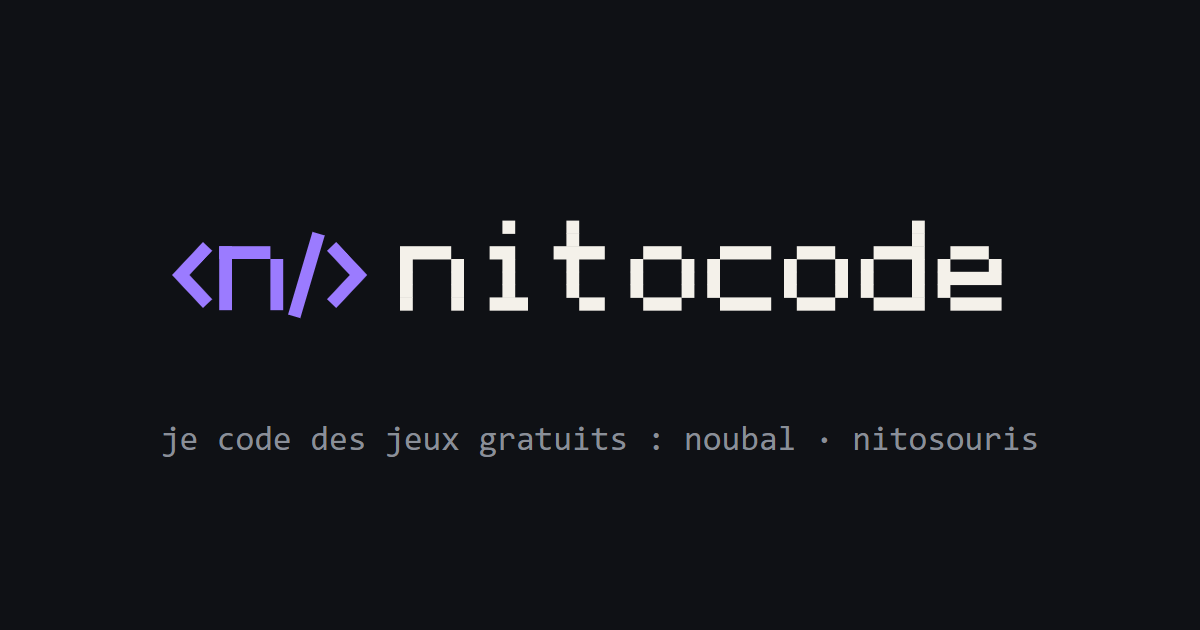
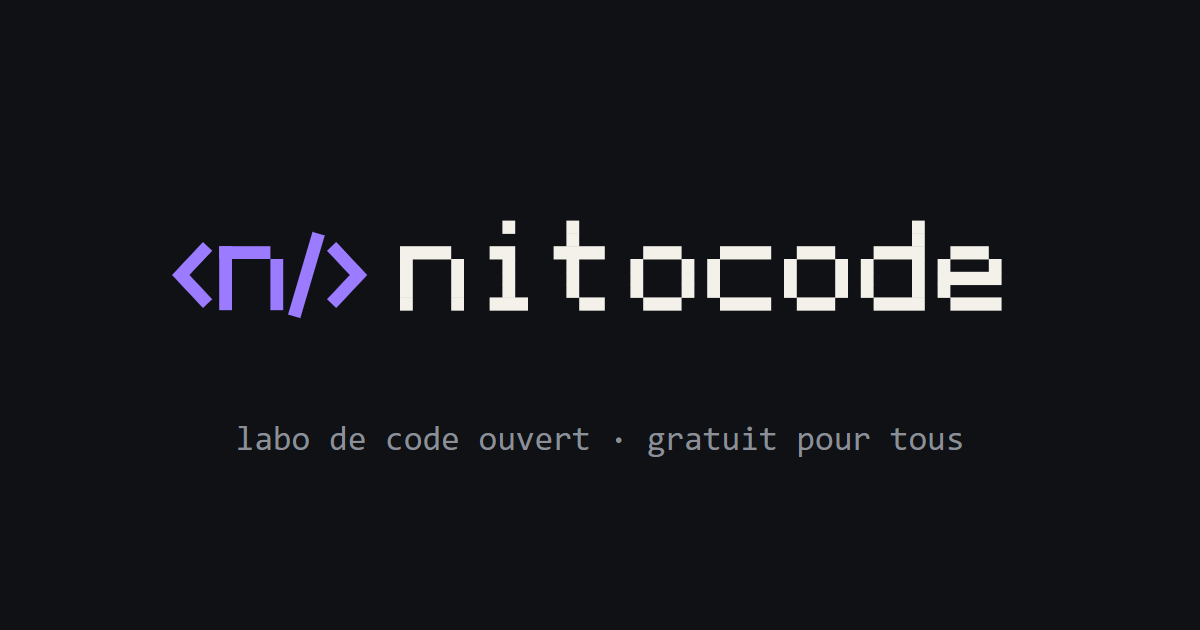
Ton « labo de code ouvert » : expériences gratuites, partagées

Changed region(s): [[0.1233, 0.6635, 0.74, 0.7238], [0.7708, 0.6635, 0.8633, 0.7238]]

diff --git a/index.html b/index.html
@@ -3,13 +3,13 @@
 <head>
 <meta charset="utf-8">
 <meta name="viewport" content="width=device-width, initial-scale=1">
-<title>Nitocode · des jeux gratuits, codés le soir</title>
-<meta name="description" content="Nitocode, c'est moi : un dev salarié qui code des jeux gratuits et sans pub le soir. Noubal, le quiz de soirée, et Nitosouris, pour progresser aux jeux vidéo.">
+<title>Nitocode · labo de code ouvert</title>
+<meta name="description" content="Nitocode, un labo de code ouvert : j'expérimente le soir (temps réel, IA, navigateur) et ce qui marche devient gratuit pour tout le monde. Noubal, Nitosouris.">
 <link rel="icon" href="img/favicon.svg" type="image/svg+xml">
 <link rel="icon" href="img/favicon.png" type="image/png">
 <link rel="apple-touch-icon" href="img/avatar.png">
-<meta property="og:title" content="Nitocode · des jeux gratuits, codés le soir">
-<meta property="og:description" content="Noubal, le quiz de soirée, et Nitosouris, pour progresser aux jeux vidéo. Gratuits, sans pub.">
+<meta property="og:title" content="Nitocode · labo de code ouvert">
+<meta property="og:description" content="J'expérimente le soir, ce qui marche devient gratuit pour tout le monde. Noubal, Nitosouris.">
 <meta property="og:image" content="https://nitocode.com/img/og.png">
 <meta property="og:url" content="https://nitocode.com/">
 <meta name="twitter:card" content="summary_large_image">
@@ -83,20 +83,20 @@
 
 <header>
   <img class="logo" src="img/logo-complet.svg" alt="Nitocode" width="1080" height="212">
-  <h1>Je code des jeux <em>gratuits</em>,<br>le soir, après le boulot.</h1>
-  <p class="chapo">Salut, moi c'est Nitocode. Développeur salarié la journée, je fabrique le soir des jeux sans pub ni abonnement, et je partage les coulisses en public.</p>
+  <h1>Un labo de code,<br><em>ouvert à tous</em>.</h1>
+  <p class="chapo">Salut, moi c'est Nitocode. Dev le jour, j'expérimente le soir : temps réel, IA, ce qu'un navigateur sait vraiment faire. Ce qui marche devient un outil gratuit, sans pub, pour tout le monde, et je raconte comment c'est fait.</p>
   <div class="boutons">
-    <a class="btn plein" href="#projets">Voir les projets</a>
+    <a class="btn plein" href="#projets">Voir les expériences</a>
     <a class="btn" href="https://ko-fi.com/nitocode">Soutenir sur Ko-fi ☕</a>
   </div>
 </header>
 
 <section id="projets">
-  <h2>projets</h2>
+  <h2>expériences</h2>
   <div class="projets">
     <article class="carte" style="--c: var(--noubal)">
       <h3>Noubal</h3>
-      <p class="tag">quiz de soirée · FR + EN</p>
+      <p class="tag">exp_01 · quiz multijoueur en temps réel · FR + EN</p>
       <p>Un écran partagé, chacun répond sur son téléphone. Le jeu parfait pour un apéro ou une soirée entre amis.</p>
       <ul>
         <li>Rien à installer : on rejoint avec un QR code et un pseudo</li>
@@ -107,7 +107,7 @@
     </article>
     <article class="carte" style="--c: var(--souris)">
       <h3>Nitosouris</h3>
-      <p class="tag">progresser aux jeux vidéo</p>
+      <p class="tag">exp_02 · apprendre à jouer, dans le navigateur</p>
       <p>Un site pour progresser aux jeux vidéo, qu'on soit novice complet ou déjà gamer, à son rythme.</p>
       <ul>
         <li>Gratuit, directement dans le navigateur</li>
@@ -120,19 +120,19 @@
 </section>
 
 <section id="coulisses">
-  <h2>coulisses</h2>
+  <h2>labo</h2>
   <div class="deux">
     <div>
-      <p>Je n'ai que quelques heures par semaine. Alors je me suis construit un petit QG : un brief chaque matin sur Discord avec <strong>une</strong> tâche de 25 minutes, des assistants IA qui préparent le travail, et GitHub pour tout garder.</p>
-      <p>Je raconte comment ça marche, ce qui rate et ce qui avance sur X, en <em>build in public</em>.</p>
+      <p>Le labo tourne avec quelques heures par semaine. Pour tenir, je me suis construit un QG : un brief chaque matin sur Discord avec <strong>une</strong> tâche de 25 minutes, des assistants IA qui préparent le travail, et GitHub pour tout garder.</p>
+      <p>Les essais, les ratés et ce que j'en apprends, je les partage sur X, en <em>build in public</em> : si ça peut servir à quelqu'un, tant mieux.</p>
       <a class="btn" href="https://x.com/nitocode">Suivre @nitocode</a>
     </div>
     <div class="terminal" aria-label="La règle de travail">
       <div><span class="v">$</span> <b>nitocode --regles</b></div>
-      <div>3 projets actifs, pas un de plus</div>
-      <div>1 tâche par soir, 25 min</div>
-      <div>tout gratuit, sans pub</div>
-      <div>on montre, même quand c'est pas fini</div>
+      <div>expérimenter, même si ça rate</div>
+      <div>ce qui marche : gratuit, sans pub</div>
+      <div>partager ce qu'on apprend</div>
+      <div>3 expériences actives, pas plus</div>
     </div>
   </div>
 </section>
@@ -140,7 +140,7 @@
 <section id="soutenir">
   <h2>soutenir</h2>
   <div class="soutien">
-    <p>Noubal et Nitosouris sont gratuits et le resteront. Si l'un d'eux t'a fait passer un bon moment, un café sur Ko-fi aide à payer les serveurs.</p>
+    <p>Tout ce qui sort du labo est gratuit et le restera. Si Noubal ou Nitosouris t'a servi, un café sur Ko-fi aide à payer les serveurs et la prochaine expérience.</p>
     <a class="btn plein" href="https://ko-fi.com/nitocode">Offrir un café ☕</a>
   </div>
 </section>
@@ -161,7 +161,7 @@
 
 <footer>
   <img src="img/logo-violet.svg" alt="" width="254" height="212">
-  <span>nitocode · fait main, le soir</span>
+  <span>nitocode · labo ouvert, le soir</span>
 </footer>
 
 </div>
